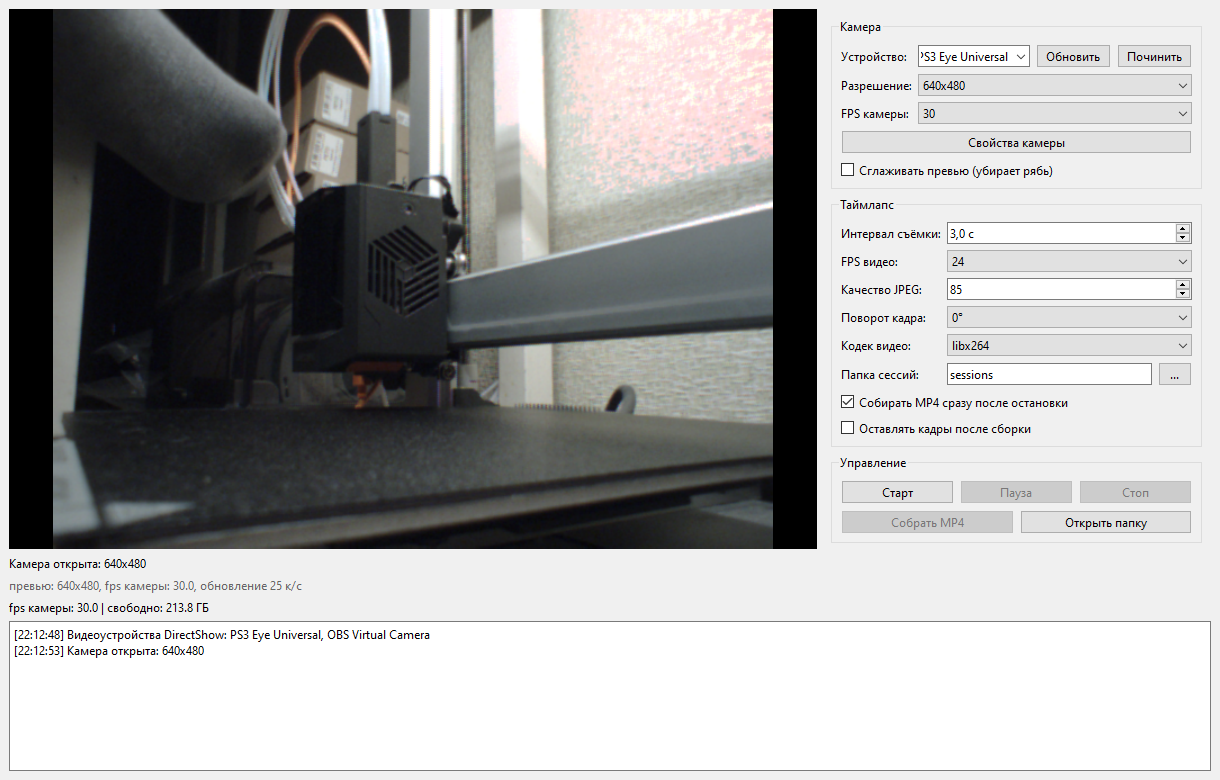
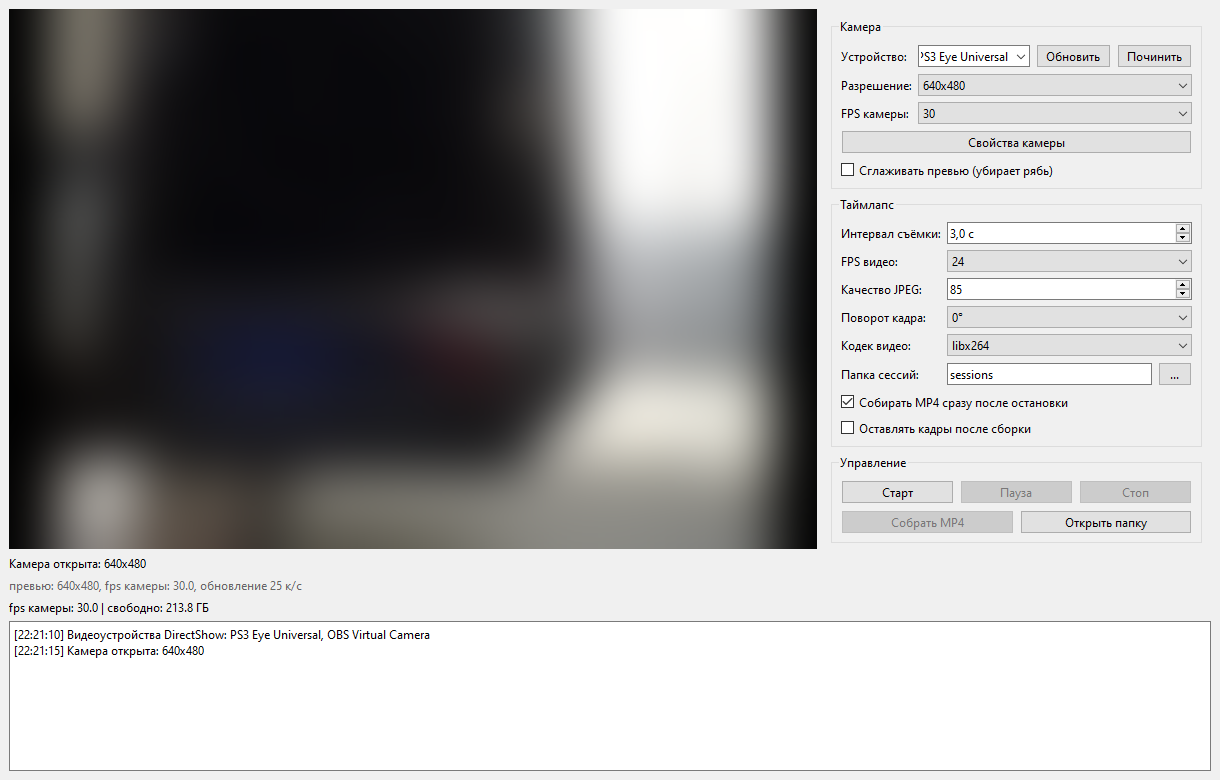
Blur camera preview area in README screenshot

Changed region(s): [[0.0, 0.0, 0.6852, 0.7077], [0.0934, 0.4615, 0.1246, 0.4923], [0.0311, 0.8, 0.0623, 0.8308]]

diff --git a/tools/make_preview.py b/tools/make_preview.py
@@ -1,10 +1,14 @@
 """Снимок окна приложения для README (assets/preview.png).
 
-Запуск: python tools/make_preview.py
+Запуск: python tools/make_preview.py [--no-blur]
 
 Окно MainWindow рендерится реальным платформенным плагином Qt за пределами
 рабочего стола, затем сохраняется снимок. Камеру открывать не обязательно:
 если кадров нет, в превью будет надпись «Ожидание кадра...».
+
+Область видеопревью по умолчанию размывается: снимок попадает в публичный
+README, а в кадре может быть видно рабочее место/оборудование. Отключить
+размытие — флаг --no-blur.
 """
 from __future__ import annotations
 
@@ -15,20 +19,44 @@ import time
 ROOT = os.path.dirname(os.path.dirname(os.path.abspath(__file__)))
 sys.path.insert(0, ROOT)
 
+from PIL import Image, ImageFilter  # noqa: E402
 from PyQt6.QtWidgets import QApplication  # noqa: E402
 
 from app.config import AppConfig  # noqa: E402
 from app.ui import MainWindow  # noqa: E402
 
 OUT = os.path.join(ROOT, "assets", "preview.png")
+RAW = os.path.join(ROOT, "temp", "preview_raw.png")
 WINDOW_SIZE = (1220, 780)
 # Сколько ждать кадры камеры перед снимком
 CAPTURE_WAIT_SEC = 10.0
+# Радиус размытия области превью (пикселей): полностью скрывает детали кадра
+BLUR_RADIUS = 26
 
 
-def main() -> int:
+def preview_rect(window: MainWindow, scale: float) -> tuple[int, int, int, int]:
+    """Прямоугольник области видеопревью в координатах снимка (left, top, right, bottom)."""
+    label = window.video_label
+    top_left = label.mapTo(window, label.rect().topLeft())
+    left = int(top_left.x() * scale)
+    top = int(top_left.y() * scale)
+    right = int((top_left.x() + label.width()) * scale)
+    bottom = int((top_left.y() + label.height()) * scale)
+    return left, top, right, bottom
+
+
+def blur_preview(path: str, rect: tuple[int, int, int, int]) -> None:
+    """Размывает область видеопревью на сохранённом снимке."""
+    image = Image.open(path).convert("RGB")
+    region = image.crop(rect).filter(ImageFilter.GaussianBlur(radius=BLUR_RADIUS))
+    image.paste(region, rect)
+    image.save(path)
+
+
+def main(argv: list[str]) -> int:
     """Показывает окно вне экрана, ждёт кадры камеры и сохраняет снимок."""
-    app = QApplication(sys.argv)
+    blur = "--no-blur" not in argv
+    app = QApplication(argv[:1])
     window = MainWindow(AppConfig.load())
     window.resize(*WINDOW_SIZE)
     # Окно уводим далеко за пределы рабочего стола: снимок делается без показа пользователю
@@ -41,11 +69,19 @@ def main() -> int:
         time.sleep(0.02)
 
     pixmap = window.grab()
-    pixmap.save(OUT)
+    os.makedirs(os.path.dirname(RAW), exist_ok=True)
+    pixmap.save(RAW)
+    scale = pixmap.width() / max(window.width(), 1)
+    rect = preview_rect(window, scale)
     window.shutdown()
-    print(f"Снимок сохранён: {OUT} ({pixmap.width()}x{pixmap.height()})")
+
+    if blur:
+        blur_preview(RAW, rect)
+    os.replace(RAW, OUT)
+    print(f"Снимок сохранён: {OUT} ({pixmap.width()}x{pixmap.height()}), размытие={blur}, область={rect}")
     return 0
 
 
 if __name__ == "__main__":
-    sys.exit(main())
+    sys.exit(main(sys.argv))
+
